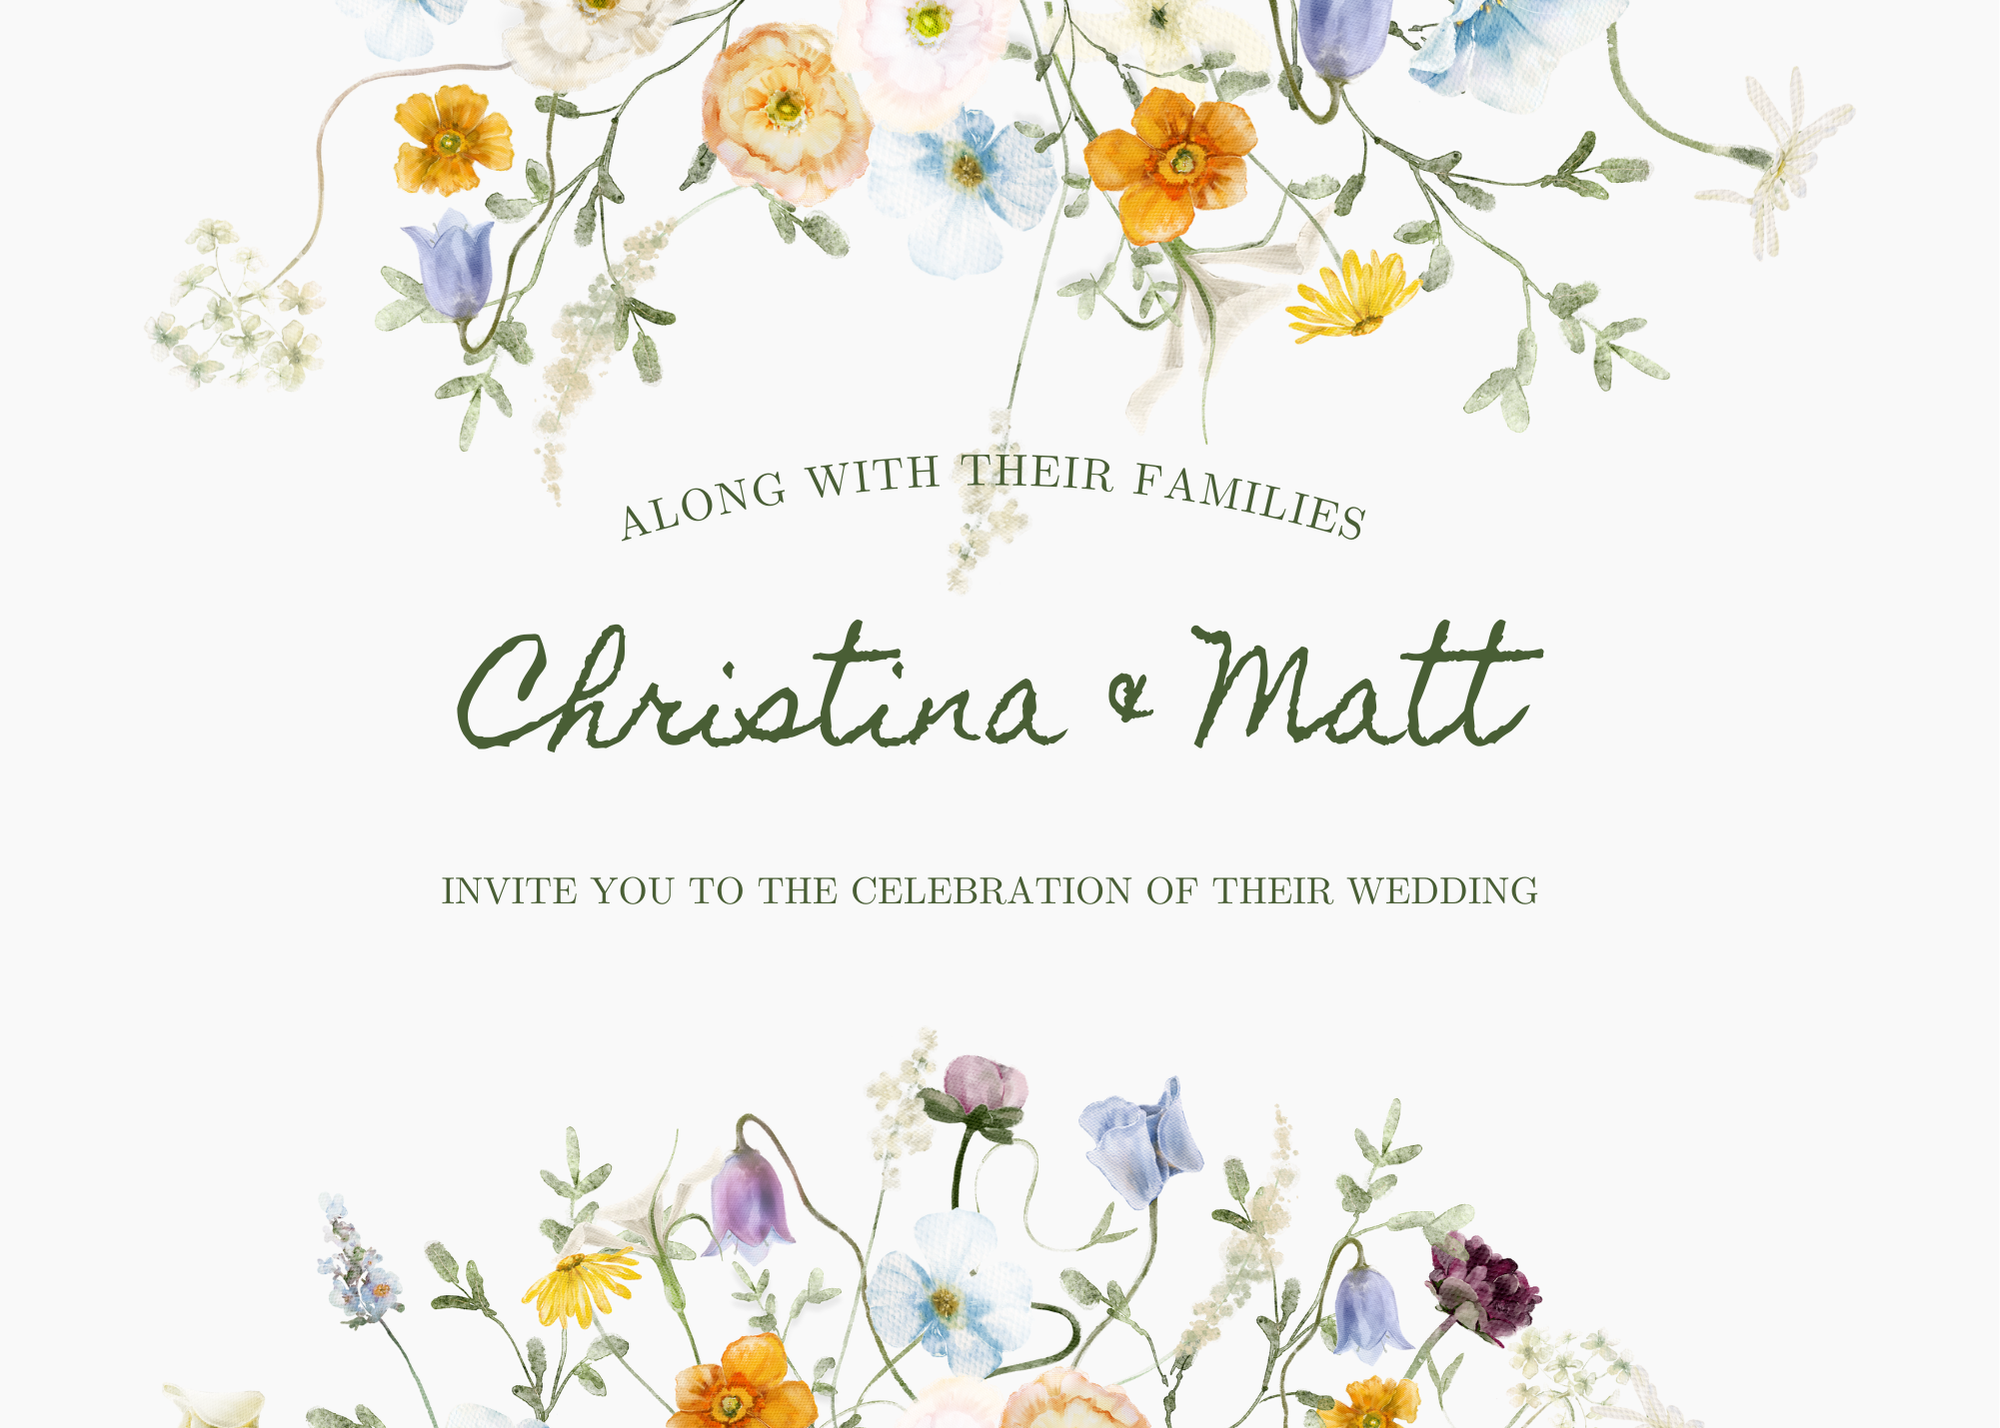
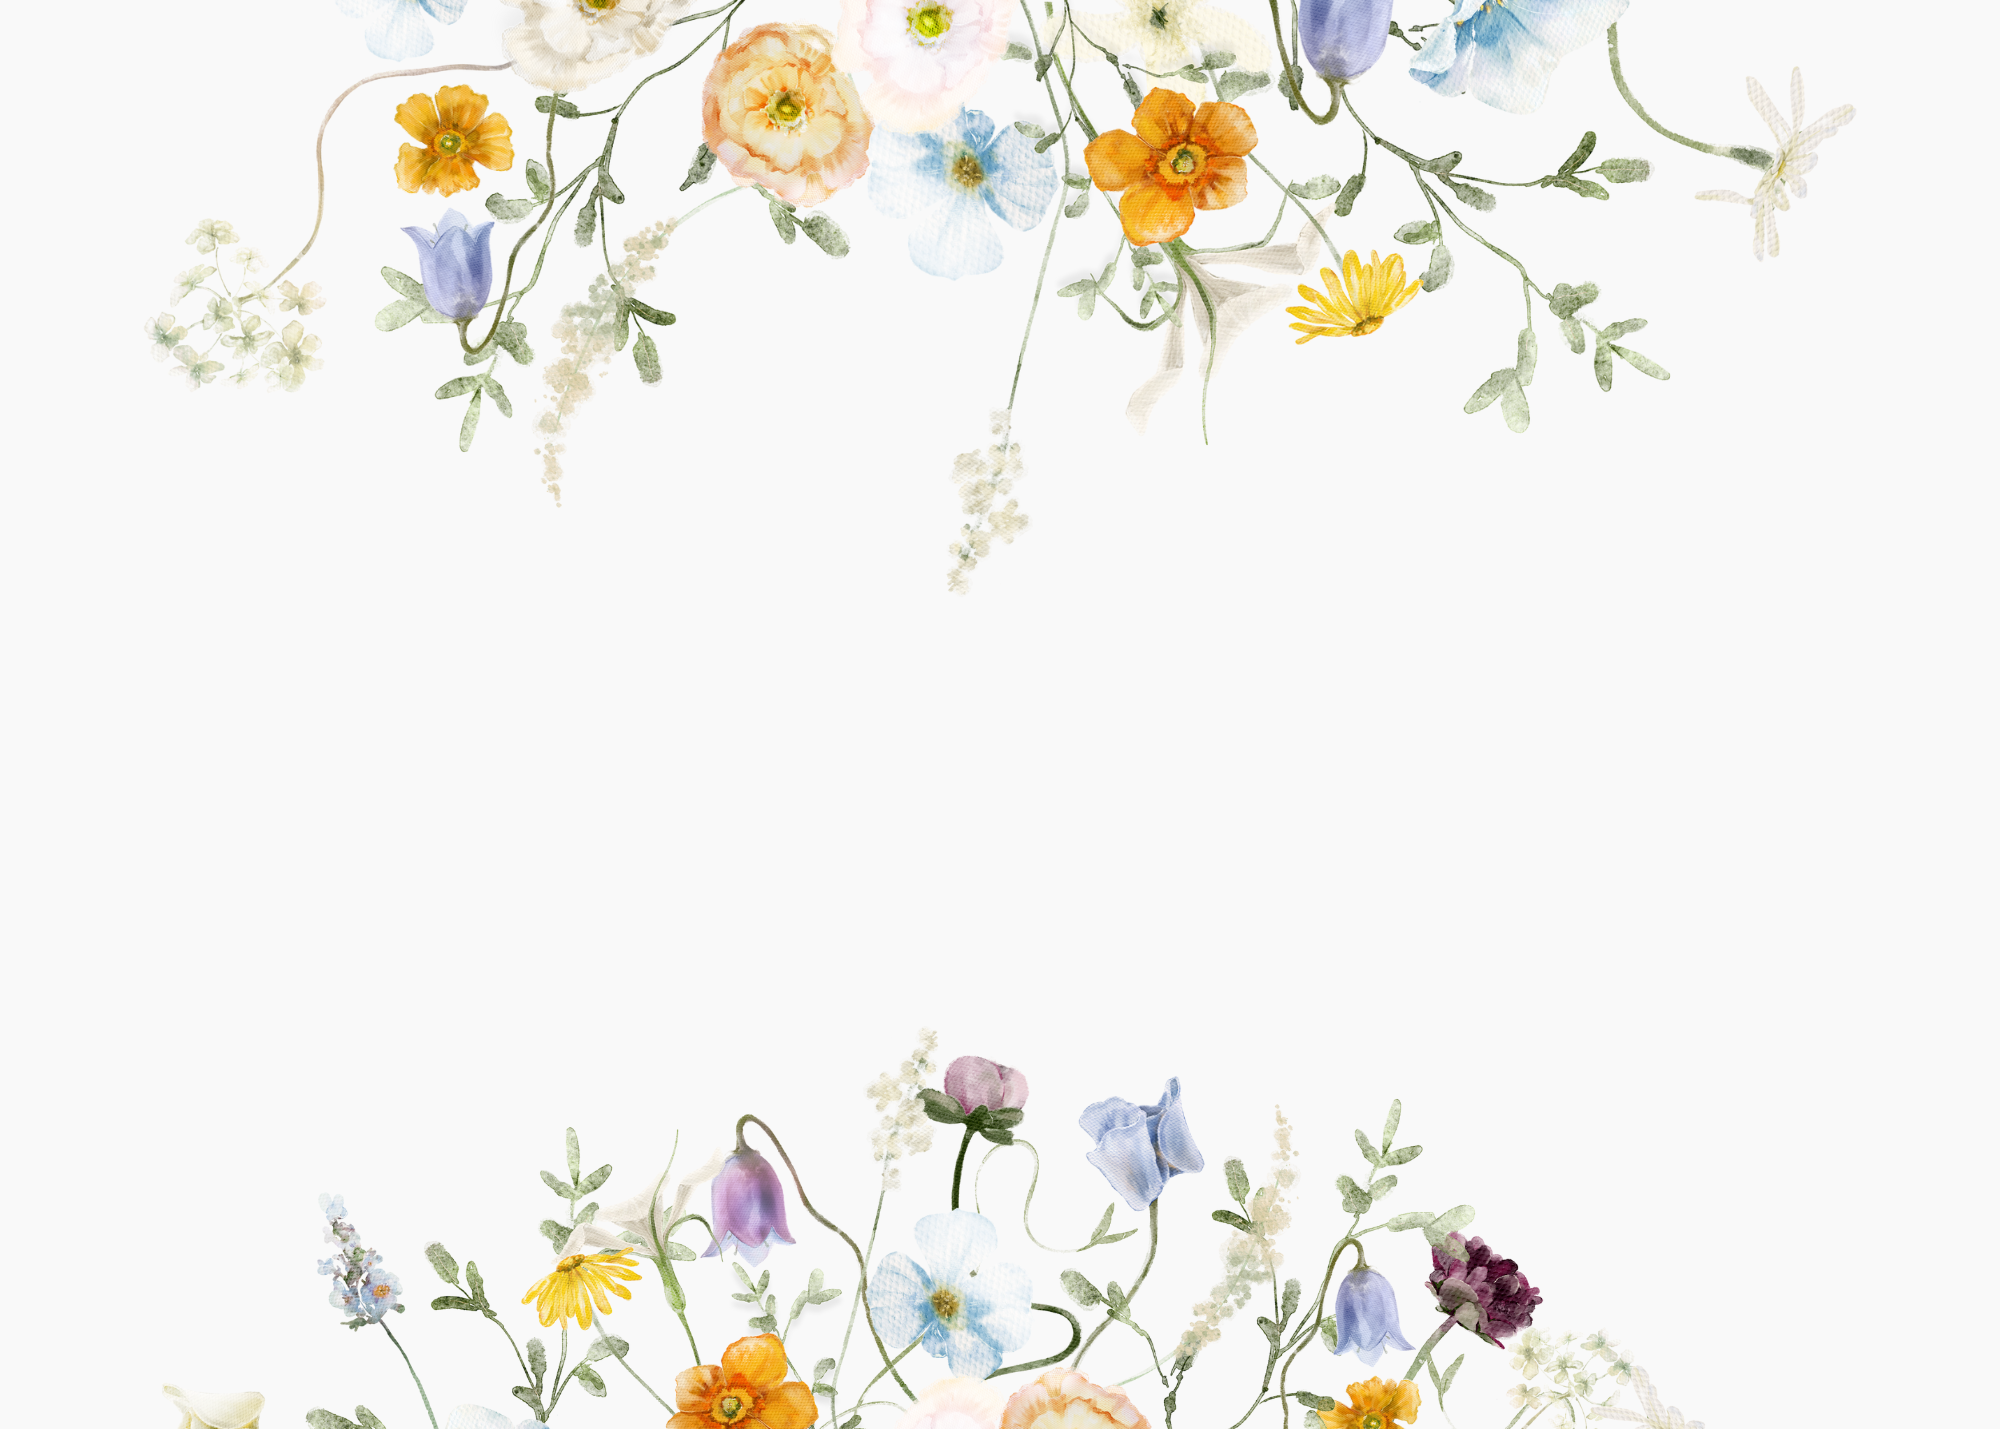
Add files via upload

diff --git a/styles.css b/styles.css
@@ -1,20 +1,25 @@
+/* General Reset */
+* {
+    margin: 0;
+    padding: 0;
+    box-sizing: border-box;
+}
+
 body {
     font-family: 'Italiana', serif;
     font-weight: 400;
     font-style: normal;
     background-color: #f9f9f9;
     color: #495e35;
-    margin: 0;
-    padding: 0;
     overflow-x: hidden;
-    scroll-behavior: smooth; /* Add smooth scrolling for the entire page */
+    scroll-behavior: smooth;
 }
 
+/* Typography */
 h1, h2 {
     font-family: 'Homemade Apple', serif;
-    font-weight: 400; 
+    font-weight: 400;
     font-style: normal;
-
 }
 
 h1 {
@@ -30,38 +35,66 @@ p {
     font-weight: 300;
     line-height: 1.6;
     font-family: "Cactus Classical Serif", serif;
-    font-weight: 400;
-    font-style: normal;
-}
-
-.hero {
-    display: flex;
-    flex-direction: column;
-    justify-content: center;
-    align-items: center;
-    height: 100vh;
-    text-align: center;
-    background: #f9f9f9;
-    font-size: 2rem;
 }
 
 .intro {
+    position: relative;
+    width: 100%;
+    height: 100vh; /* Full viewport height */
+    background: url('intro.png') no-repeat center center/cover;
     display: flex;
     justify-content: center;
-    align-items: center;
-    overflow: hidden;
-    height: 100vh; /* Ensures it takes the full screen */
-    width: 100vw;
+    align-items: center; /* Center content vertically */
+    padding: 0 5%; /* Horizontal padding only for the intro section */
+    box-sizing: border-box;
 }
 
-.intro img {
+.overlay-container {
+    position: relative;
     width: 100%;
-    height: 100%;
-    object-fit: cover; /* Ensures image fills the area while cropping */
-    object-position: center center; /* Keeps focus on the center */
+    max-width: 2000px; /* Adjust max-width to be a bit narrower */
+    padding: 40px 20px; /* Add padding on top, bottom, and sides */
+    box-sizing: border-box;
+    text-align: left;
+    overflow: hidden; /* Prevent text overflow */
+    height: auto; /* Adjust height based on content */
+    display: flex;
+    flex-direction: column;
+    justify-content: center;
 }
 
-/* Styling for the second image */
+.overlay {
+    color: #495e35; /* Font color */
+    font-size: 1.5rem; /* Default font size */
+    line-height: 1.6; /* Line height for better readability */
+    margin: 0;
+}
+
+/* Responsive adjustments for smaller screens */
+@media screen and (max-width: 768px) {
+    .overlay {
+        font-size: 1.3rem; /* Slightly smaller font size for tablets */
+    }
+
+    .overlay-container {
+        padding: 30px 15px; /* Adjust padding for smaller screens */
+        max-width: 90%; /* Make container width responsive */
+    }
+}
+
+@media screen and (max-width: 480px) {
+    .overlay {
+        font-size: 1.2rem; /* Further reduce font size for mobile */
+    }
+
+    .overlay-container {
+        padding: 20px 10px; /* Adjust padding for mobile screens */
+        max-width: 90%; /* Keep container width responsive */
+    }
+}
+
+
+/* Pic Section */
 .pic {
     display: flex;
     justify-content: center;
@@ -75,41 +108,122 @@ p {
 .pic img {
     width: 100%;
     height: 100%;
-    object-fit: cover; /* Ensures image fills the area while cropping */
-    object-position: center center; /* Keeps focus in the center */
+    object-fit: cover;
+    object-position: center center;
 }
 
-.intro img {
-    width: 75%;  /* Default size for larger screens */
-    height: auto;
-    display: block;
+/* Wedding and RSVP Sections */
+#wedding-1, #wedding-2, .rsvp-section {
+    display: flex;
+    justify-content: center;
+    align-items: center;
+    padding: 20px;
+    text-align: center;
+    font-family: "Cactus Classical Serif", serif;
+    font-weight: 400;
+    font-style: normal;
+    margin-bottom: 30px;
 }
 
-/* Adjust for smaller screens */
+#wedding-1 {
+    background: #f9f9f9;
+    font-size: 1.2rem;
+    white-space: nowrap;
+}
+
+#wedding-2 {
+    background: #E4C7B8;
+    font-size: 1.2rem;
+    white-space: nowrap;
+}
+
+.rsvp-section {
+    background: #f9f9f9;
+    font-size: 1.2rem;
+    color: #495e35;
+    padding: 30px;
+    margin-top: 20px;
+}
+
+/* Footer */
+footer {
+    text-align: center;
+    padding: 20px;
+    font-size: 14px;
+    font-weight: 400;
+    color: #495e35;
+}
+
+/* Responsive Adjustments */
+
+/* Tablet Screens */
 @media screen and (max-width: 768px) {
-    .intro img {
-        width: 100%; /* Ensure image takes up full width */
-        height: 80vh; /* Adjust height for better fit on mobile */
-        object-fit: cover; /* Ensures image covers the area without distorting */
+    body {
+        font-size: 1rem;
     }
-}
-
-@media screen and (max-width: 480px) {
-    .intro img {
-        width: 100%; /* Full width for very small screens */
-        height: 80vh; /* Maintain 80% of viewport height */
-        object-fit: cover; /* Keep the aspect ratio while filling the space */
+    
+    h1 {
+        font-size: 2.5rem;
     }
-}
 
+    h2 {
+        font-size: 1.8rem;
+    }
 
-/* Responsive adjustments for mobile screens */
-@media (max-width: 768px) {
+    .intro img {
+        width: 100%;
+        height: 80vh;
+        object-fit: cover;
+    }
+
     .pic {
-        height: 80vh; /* Adjust height for smaller screens */
+        height: 80vh;
+    }
+
+    #wedding-1, #wedding-2, .rsvp-section {
+        font-size: 1.2rem;
+    }
+    
+    iframe {
+        width: 100%;
     }
 }
 
+/* Mobile Screens */
+@media screen and (max-width: 480px) {
+    body {
+        font-size: 0.9rem;
+    }
+
+    h1 {
+        font-size: 2rem;
+    }
+
+    h2 {
+        font-size: 1.5rem;
+    }
+
+    .intro img {
+        width: 100%;
+        height: 80vh;
+        object-fit: cover;
+    }
+
+    .pic {
+        height: 80vh;
+    }
+
+    #wedding-1, #wedding-2, .rsvp-section {
+        font-size: 1rem;
+    }
+    
+    iframe {
+        width: 100%;
+        height: 500px;
+    }
+}
+
+/* Scrolltelling */
 .scrollytelling {
     display: flex;
     flex-direction: column;
@@ -126,55 +240,25 @@ p {
     align-items: center;
     text-align: center;
     font-size: 1.5rem;
-    background: #f1f0e2;
-    opacity: 0; /* Initially hide the sections */
-    transition: opacity 1s ease-out, transform 0.5s ease-out; /* Smooth transitions for opacity and movement */
+    background: #f9f9f9;
+    opacity: 0;
+    transition: opacity 1s ease-out, transform 0.5s ease-out;
 }
 
 .panel.visible {
-    opacity: 1; /* Make the section visible */
-    transform: translateY(0); /* Move the section into place */
+    opacity: 1;
+    transform: translateY(0);
 }
 
-#wedding-1 { background: #f9f9f9; }
-#wedding-2 { background: #E4C7B8; }
-.rsvp-section { background: #f9f9f9; }
-
-#wedding-1, #wedding-2 {
-    white-space: nowrap; /* Prevents text from wrapping */
-    text-align: center;
-}
-
-/* Adjust for smaller screens */
-@media screen and (max-width: 768px) {
-    #wedding-1, #wedding-2 {
-        font-size: 1.2rem; /* Reduce font size on tablets */
-    }
-}
-
-@media screen and (max-width: 480px) {
-    #wedding-1, #wedding-2 {
-        font-size: 1rem; /* Further reduce font size on small phones */
-    }
-}
-
-iframe {
-    width: 80%;
-    height: 600px;
-    border: none;
-    border-radius: 8px;
-}
-
-footer {
-    text-align: center;
-    padding: 20px;
-    font-size: 14px;
-    font-weight: 400;
-    color: #495e35;
-}
-
+/* Responsive Adjustments for Panels */
 @media (max-width: 768px) {
-    iframe {
-        width: 100%;
+    .panel {
+        font-size: 1.2rem;
+    }
+}
+
+@media (max-width: 480px) {
+    .panel {
+        font-size: 1rem;
     }
 }

diff --git a/index.html b/index.html
@@ -77,8 +77,18 @@
     <!-- Actual Content (Hidden initially) -->
     <div id="content">
         <div class="intro">
-            <img src="intro.png" alt="intro">
+            <div class="overlay-container">
+                <div class="overlay">
+                    <h2 class="homemade-font">Dear Family and Friends,</h2>
+                    <h2 class="homemade-font">Our story wouldn’t be the same without you. Every laugh, every lesson, every moment shared has led us here—and we can’t imagine our wedding day without you.</h2>
+                    <h2 class="homemade-font">We are so excited to finally say “I do” and celebrate this new chapter with the people who mean the most to us. Your love and support have brought us here, and having you by our side will make this day even more special.</h2>
+                    <h2 class="homemade-font">So mark your calendars, get ready to celebrate, and let’s make unforgettable memories together!</h2>
+                    <h2 class="homemade-font">With love, Christina & Matt</h2>
+            
+                </div>
+            </div>
         </div>
+        
         <div class="pic">
             <img src="pic.jpg" alt="pic">
         </div>
